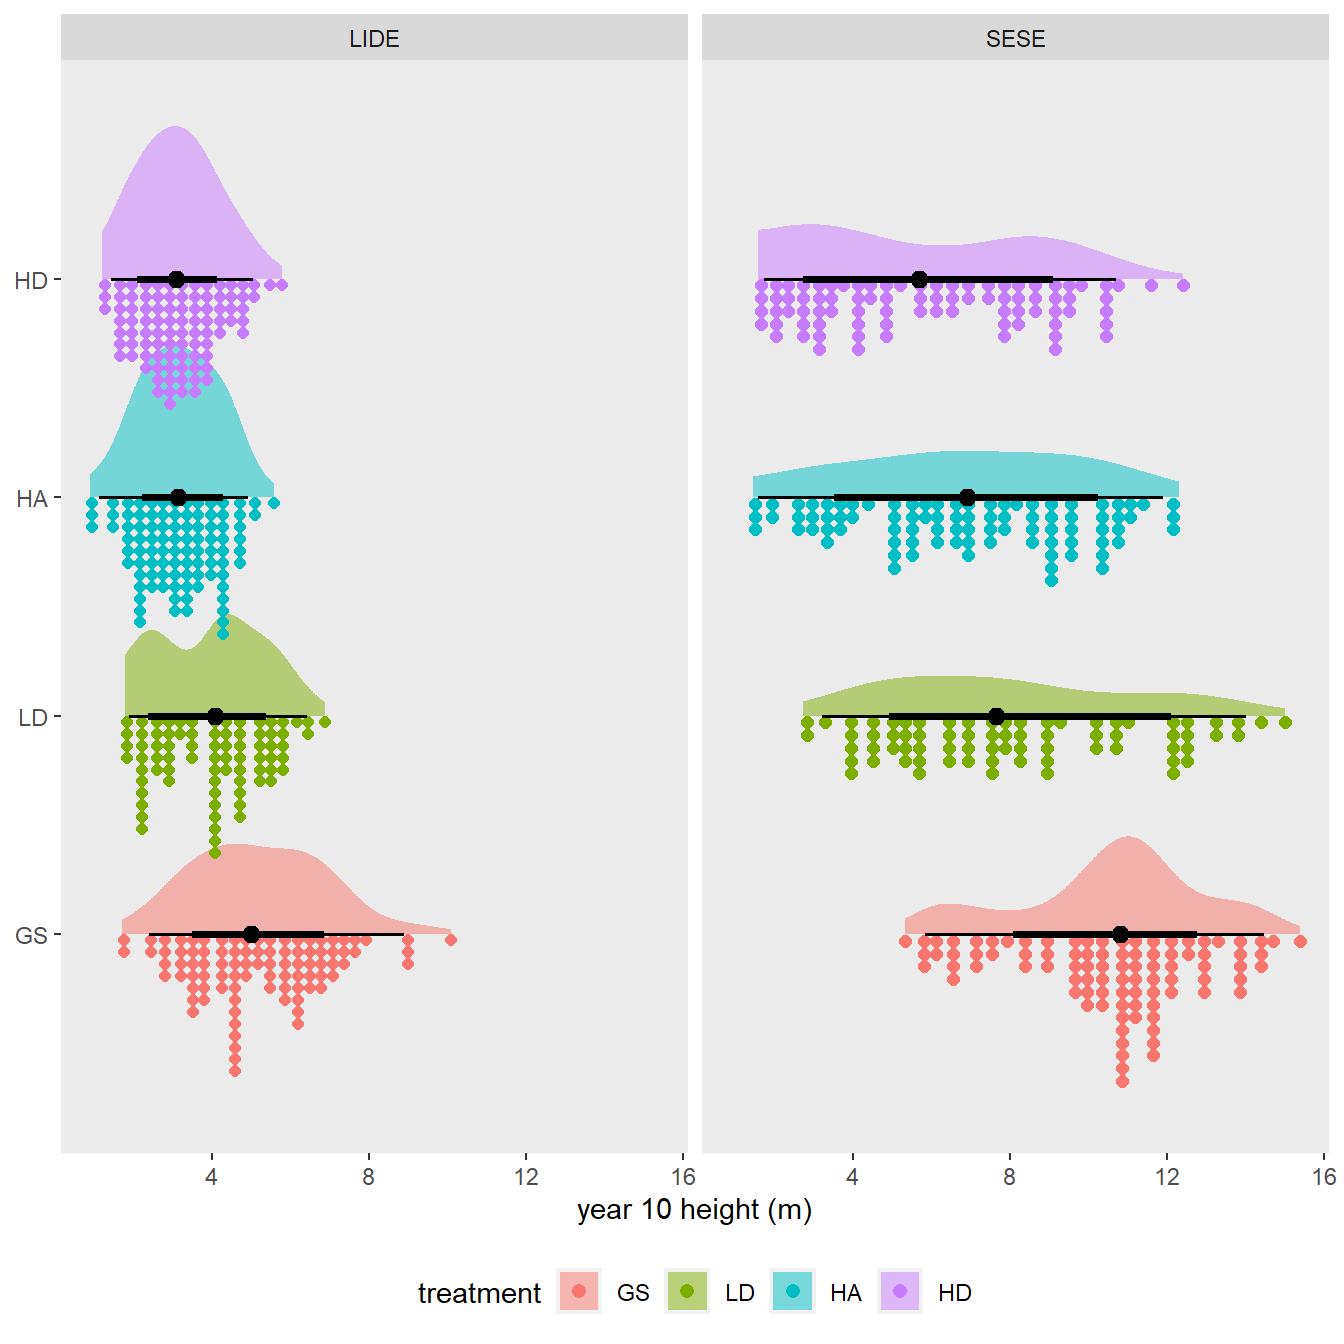
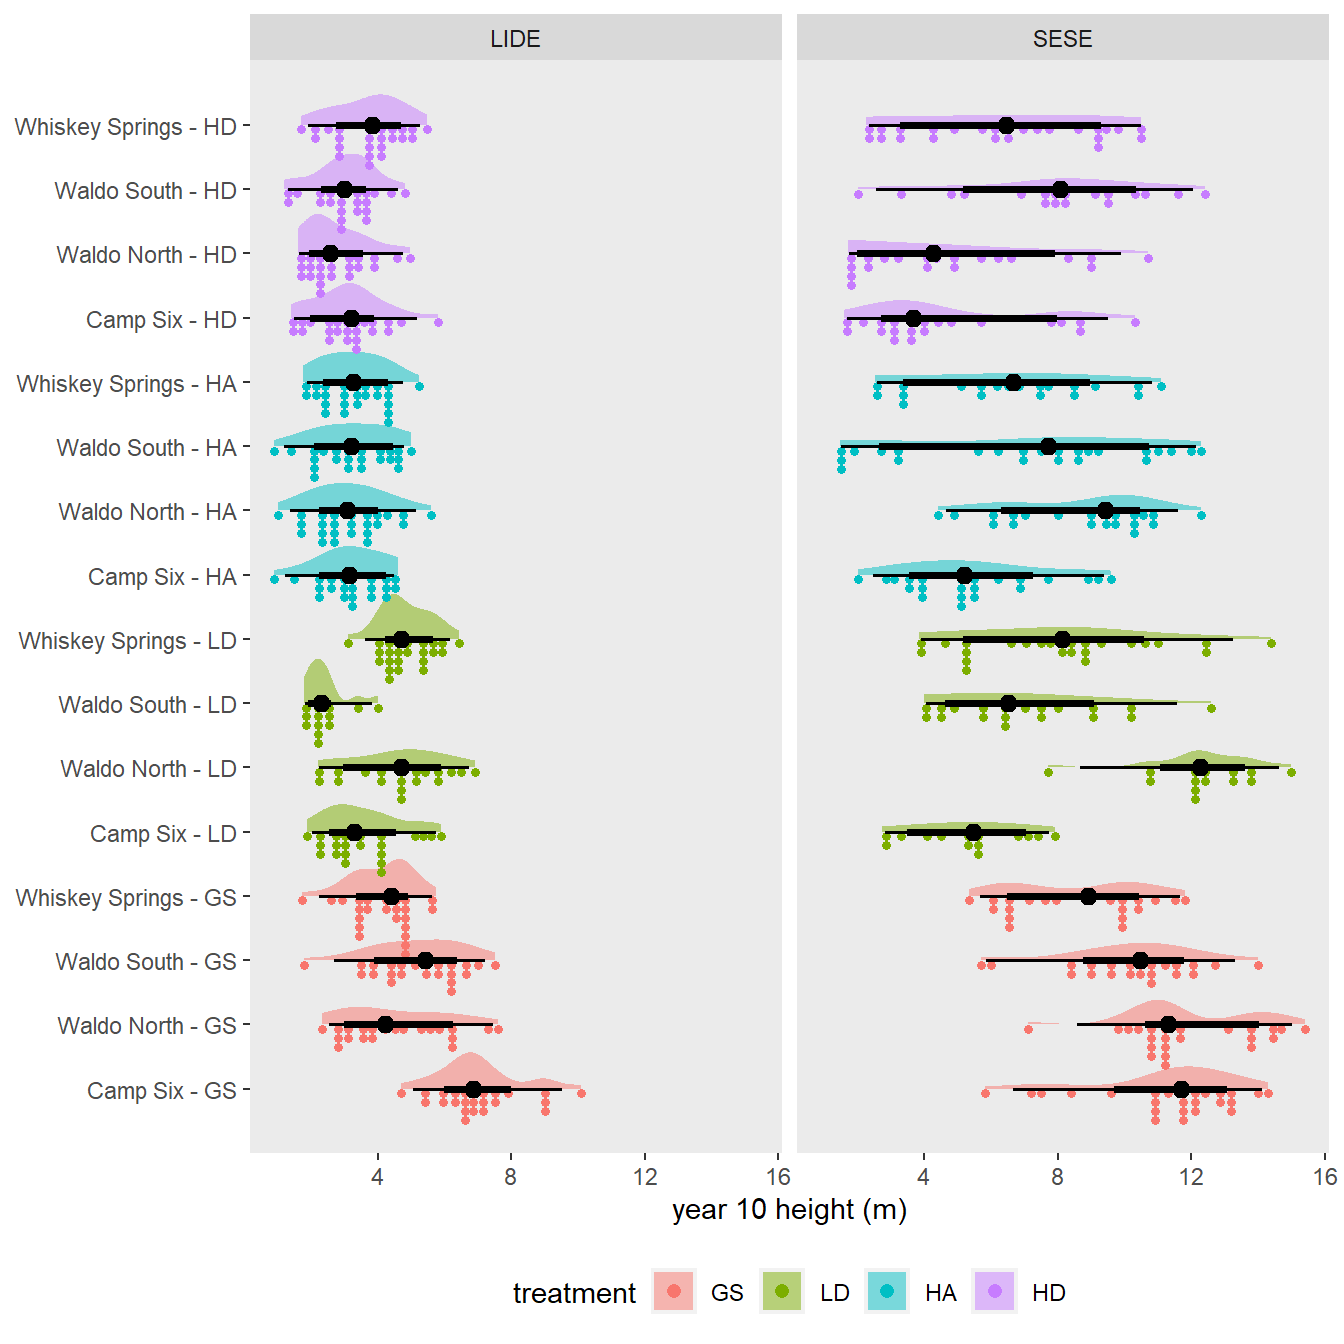
fixed height by plot graph

diff --git a/docs/sprouts_import_data.html b/docs/sprouts_import_data.html
@@ -725,16 +725,15 @@ source(knitr::purl("sprouts_import_data.qmd", tempfile()))
 <div class="sourceCode cell-code" id="cb10"><pre class="sourceCode r code-with-copy"><code class="sourceCode r"><span id="cb10-1"><a href="#cb10-1" aria-hidden="true" tabindex="-1"></a>sprouts <span class="sc">|&gt;</span></span>
 <span id="cb10-2"><a href="#cb10-2" aria-hidden="true" tabindex="-1"></a>  <span class="fu">ggplot</span>(<span class="fu">aes</span>(</span>
 <span id="cb10-3"><a href="#cb10-3" aria-hidden="true" tabindex="-1"></a>    ht10,</span>
-<span id="cb10-4"><a href="#cb10-4" aria-hidden="true" tabindex="-1"></a>    <span class="fu">fct_relevel</span>(treat, treat_order),</span>
-<span id="cb10-5"><a href="#cb10-5" aria-hidden="true" tabindex="-1"></a>    <span class="fu">interaction</span>(site, , <span class="at">sep =</span> <span class="st">" - "</span>),</span>
-<span id="cb10-6"><a href="#cb10-6" aria-hidden="true" tabindex="-1"></a>    <span class="at">fill =</span> <span class="fu">fct_relevel</span>(treat, treat_order),</span>
-<span id="cb10-7"><a href="#cb10-7" aria-hidden="true" tabindex="-1"></a>  )) <span class="sc">+</span></span>
-<span id="cb10-8"><a href="#cb10-8" aria-hidden="true" tabindex="-1"></a>  <span class="fu">stat_slab</span>(<span class="fu">aes</span>(<span class="at">thickness =</span> <span class="fu">after_stat</span>(pdf <span class="sc">*</span> n)), <span class="at">alpha =</span> <span class="fl">0.5</span>, <span class="at">scale =</span> <span class="fl">0.7</span>) <span class="sc">+</span></span>
-<span id="cb10-9"><a href="#cb10-9" aria-hidden="true" tabindex="-1"></a>  <span class="fu">stat_dotsinterval</span>(<span class="at">side =</span> <span class="st">"bottom"</span>, <span class="at">scale =</span> <span class="fl">0.7</span>, <span class="at">slab_color =</span> <span class="cn">NA</span>) <span class="sc">+</span></span>
-<span id="cb10-10"><a href="#cb10-10" aria-hidden="true" tabindex="-1"></a>  <span class="fu">scale_color_brewer</span>(<span class="at">palette =</span> <span class="st">"Set2"</span>) <span class="sc">+</span></span>
-<span id="cb10-11"><a href="#cb10-11" aria-hidden="true" tabindex="-1"></a>  <span class="fu">facet_wrap</span>(<span class="sc">~</span>spp) <span class="sc">+</span></span>
-<span id="cb10-12"><a href="#cb10-12" aria-hidden="true" tabindex="-1"></a>  <span class="fu">theme</span>(<span class="at">legend.position =</span> <span class="st">"bottom"</span>) <span class="sc">+</span></span>
-<span id="cb10-13"><a href="#cb10-13" aria-hidden="true" tabindex="-1"></a>  <span class="fu">labs</span>(<span class="at">y =</span> <span class="cn">NULL</span>, <span class="at">x =</span> <span class="st">"year 10 height (m)"</span>, <span class="at">fill =</span> <span class="st">"treatment"</span>)</span></code><button title="Copy to Clipboard" class="code-copy-button"><i class="bi"></i></button></pre></div>
+<span id="cb10-4"><a href="#cb10-4" aria-hidden="true" tabindex="-1"></a>    <span class="fu">interaction</span>(site, <span class="fu">fct_relevel</span>(treat, treat_order), <span class="at">sep =</span> <span class="st">" - "</span>),</span>
+<span id="cb10-5"><a href="#cb10-5" aria-hidden="true" tabindex="-1"></a>    <span class="at">fill =</span> <span class="fu">fct_relevel</span>(treat, treat_order),</span>
+<span id="cb10-6"><a href="#cb10-6" aria-hidden="true" tabindex="-1"></a>  )) <span class="sc">+</span></span>
+<span id="cb10-7"><a href="#cb10-7" aria-hidden="true" tabindex="-1"></a>  <span class="fu">stat_slab</span>(<span class="fu">aes</span>(<span class="at">thickness =</span> <span class="fu">after_stat</span>(pdf <span class="sc">*</span> n)), <span class="at">alpha =</span> <span class="fl">0.5</span>, <span class="at">scale =</span> <span class="fl">0.7</span>) <span class="sc">+</span></span>
+<span id="cb10-8"><a href="#cb10-8" aria-hidden="true" tabindex="-1"></a>  <span class="fu">stat_dotsinterval</span>(<span class="at">side =</span> <span class="st">"bottom"</span>, <span class="at">scale =</span> <span class="fl">0.7</span>, <span class="at">slab_color =</span> <span class="cn">NA</span>) <span class="sc">+</span></span>
+<span id="cb10-9"><a href="#cb10-9" aria-hidden="true" tabindex="-1"></a>  <span class="fu">scale_color_brewer</span>(<span class="at">palette =</span> <span class="st">"Set2"</span>) <span class="sc">+</span></span>
+<span id="cb10-10"><a href="#cb10-10" aria-hidden="true" tabindex="-1"></a>  <span class="fu">facet_wrap</span>(<span class="sc">~</span>spp) <span class="sc">+</span></span>
+<span id="cb10-11"><a href="#cb10-11" aria-hidden="true" tabindex="-1"></a>  <span class="fu">theme</span>(<span class="at">legend.position =</span> <span class="st">"bottom"</span>) <span class="sc">+</span></span>
+<span id="cb10-12"><a href="#cb10-12" aria-hidden="true" tabindex="-1"></a>  <span class="fu">labs</span>(<span class="at">y =</span> <span class="cn">NULL</span>, <span class="at">x =</span> <span class="st">"year 10 height (m)"</span>, <span class="at">fill =</span> <span class="st">"treatment"</span>)</span></code><button title="Copy to Clipboard" class="code-copy-button"><i class="bi"></i></button></pre></div>
 </details>
 <div class="cell-output-display">
 <div id="fig-data-summary-plots" class="quarto-figure quarto-figure-center anchored">
@@ -921,37 +920,72 @@ Fixed Effects:
                                -0.3771                                 -0.7222  
 optimizer (nloptwrap) convergence code: 0 (OK) ; 0 optimizer warnings; 1 lme4 warnings </code></pre>
 </div>
-<div class="sourceCode cell-code" id="cb25"><pre class="sourceCode r code-with-copy"><code class="sourceCode r"><span id="cb25-1"><a href="#cb25-1" aria-hidden="true" tabindex="-1"></a>m3</span></code><button title="Copy to Clipboard" class="code-copy-button"><i class="bi"></i></button></pre></div>
+<div class="sourceCode cell-code" id="cb25"><pre class="sourceCode r code-with-copy"><code class="sourceCode r"><span id="cb25-1"><a href="#cb25-1" aria-hidden="true" tabindex="-1"></a><span class="fu">summary</span>(m3)</span></code><button title="Copy to Clipboard" class="code-copy-button"><i class="bi"></i></button></pre></div>
 <div class="cell-output cell-output-stdout">
 <pre><code>Linear mixed model fit by REML ['lmerMod']
 Formula: ht ~ scale(sdi_init) * factor(year) * spp + (spp | site) + (spp |  
     plot) + (spp | tree)
    Data: d
-REML criterion at convergence: 6747.24
+
+REML criterion at convergence: 6747.2
+
+Scaled residuals: 
+    Min      1Q  Median      3Q     Max 
+-4.1193 -0.4451  0.0031  0.4324  3.5951 
+
 Random effects:
- Groups   Name        Std.Dev. Corr
- tree     (Intercept) 0.0000       
-          sppSESE     1.1784    NaN
- plot     (Intercept) 0.4183       
-          sppSESE     0.6172   0.38
- site     (Intercept) 0.0000       
-          sppSESE     0.6273    NaN
- Residual             1.0873       
+ Groups   Name        Variance Std.Dev. Corr
+ tree     (Intercept) 0.0000   0.0000       
+          sppSESE     1.3887   1.1784    NaN
+ plot     (Intercept) 0.1750   0.4183       
+          sppSESE     0.3809   0.6172   0.38
+ site     (Intercept) 0.0000   0.0000       
+          sppSESE     0.3935   0.6273    NaN
+ Residual             1.1823   1.0873       
 Number of obs: 2076, groups:  tree, 454; plot, 16; site, 4
-Fixed Effects:
-                           (Intercept)                         scale(sdi_init)  
-                                0.5945                                 -0.2195  
-                         factor(year)5                          factor(year)10  
-                                1.5517                                  3.2835  
-                               sppSESE           scale(sdi_init):factor(year)5  
-                                0.7699                                 -0.3008  
-        scale(sdi_init):factor(year)10                 scale(sdi_init):sppSESE  
-                               -0.6670                                 -0.1231  
-                 factor(year)5:sppSESE                  factor(year)10:sppSESE  
-                                1.6290                                  3.2528  
- scale(sdi_init):factor(year)5:sppSESE  scale(sdi_init):factor(year)10:sppSESE  
-                               -0.3771                                 -0.7222  
-optimizer (nloptwrap) convergence code: 0 (OK) ; 0 optimizer warnings; 1 lme4 warnings </code></pre>
+
+Fixed effects:
+                                       Estimate Std. Error t value
+(Intercept)                             0.59454    0.11943   4.978
+scale(sdi_init)                        -0.21946    0.12178  -1.802
+factor(year)5                           1.55167    0.08128  19.089
+factor(year)10                          3.28350    0.08128  40.395
+sppSESE                                 0.76986    0.37033   2.079
+scale(sdi_init):factor(year)5          -0.30080    0.08174  -3.680
+scale(sdi_init):factor(year)10         -0.66704    0.08174  -8.160
+scale(sdi_init):sppSESE                -0.12308    0.18630  -0.661
+factor(year)5:sppSESE                   1.62900    0.11700  13.923
+factor(year)10:sppSESE                  3.25279    0.11700  27.801
+scale(sdi_init):factor(year)5:sppSESE  -0.37713    0.11699  -3.224
+scale(sdi_init):factor(year)10:sppSESE -0.72215    0.11699  -6.173
+
+Correlation of Fixed Effects:
+            (Intr) scl(_) fct()5 fc()10 spSESE sc(_):()5 sc(_):()10 s(_):S
+scal(sd_nt) -0.008                                                        
+factor(yr)5 -0.340  0.006                                                 
+factr(yr)10 -0.340  0.006  0.500                                          
+sppSESE      0.064  0.000  0.110  0.110                                   
+scl(s_):()5  0.006 -0.336 -0.018 -0.009 -0.002                            
+scl(_):()10  0.006 -0.336 -0.009 -0.018 -0.002  0.500                     
+scl(_):SESE  0.001  0.138 -0.004 -0.004 -0.019  0.219     0.219           
+fct()5:SESE  0.236 -0.004 -0.695 -0.347 -0.158  0.012     0.006      0.000
+fc()10:SESE  0.236 -0.004 -0.347 -0.695 -0.158  0.006     0.012      0.000
+s(_):()5:SE -0.004  0.234  0.012  0.006  0.000 -0.699    -0.349     -0.314
+s(_):()10:S -0.004  0.234  0.006  0.012  0.000 -0.349    -0.699     -0.314
+            f()5:S f()10: s(_):()5:
+scal(sd_nt)                        
+factor(yr)5                        
+factr(yr)10                        
+sppSESE                            
+scl(s_):()5                        
+scl(_):()10                        
+scl(_):SESE                        
+fct()5:SESE                        
+fc()10:SESE  0.500                 
+s(_):()5:SE  0.001  0.001          
+s(_):()10:S  0.001  0.001  0.500   
+optimizer (nloptwrap) convergence code: 0 (OK)
+boundary (singular) fit: see help('isSingular')</code></pre>
 </div>
 </div>
 
